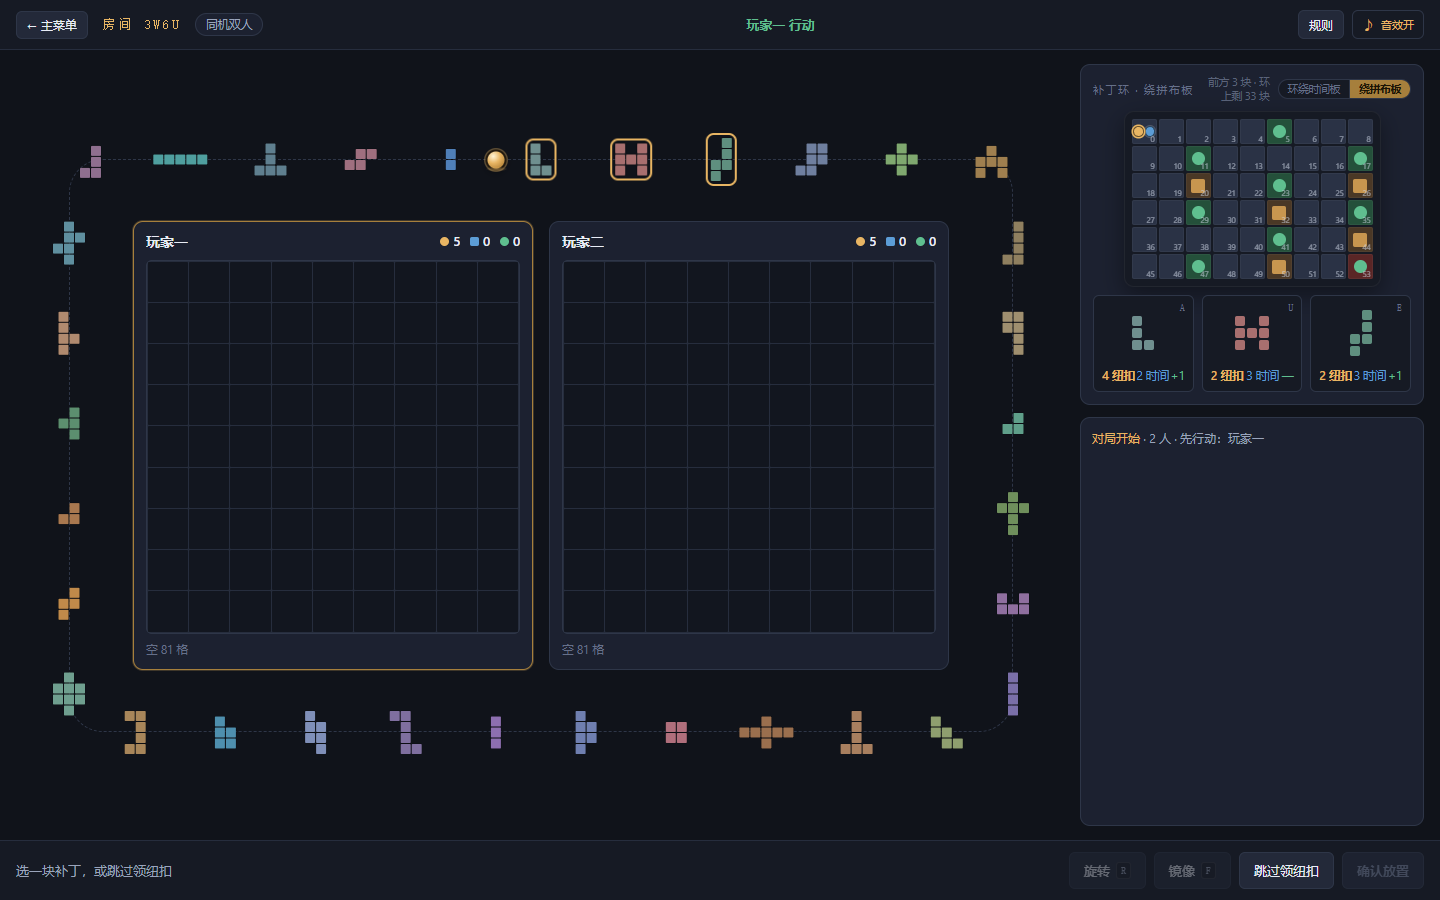
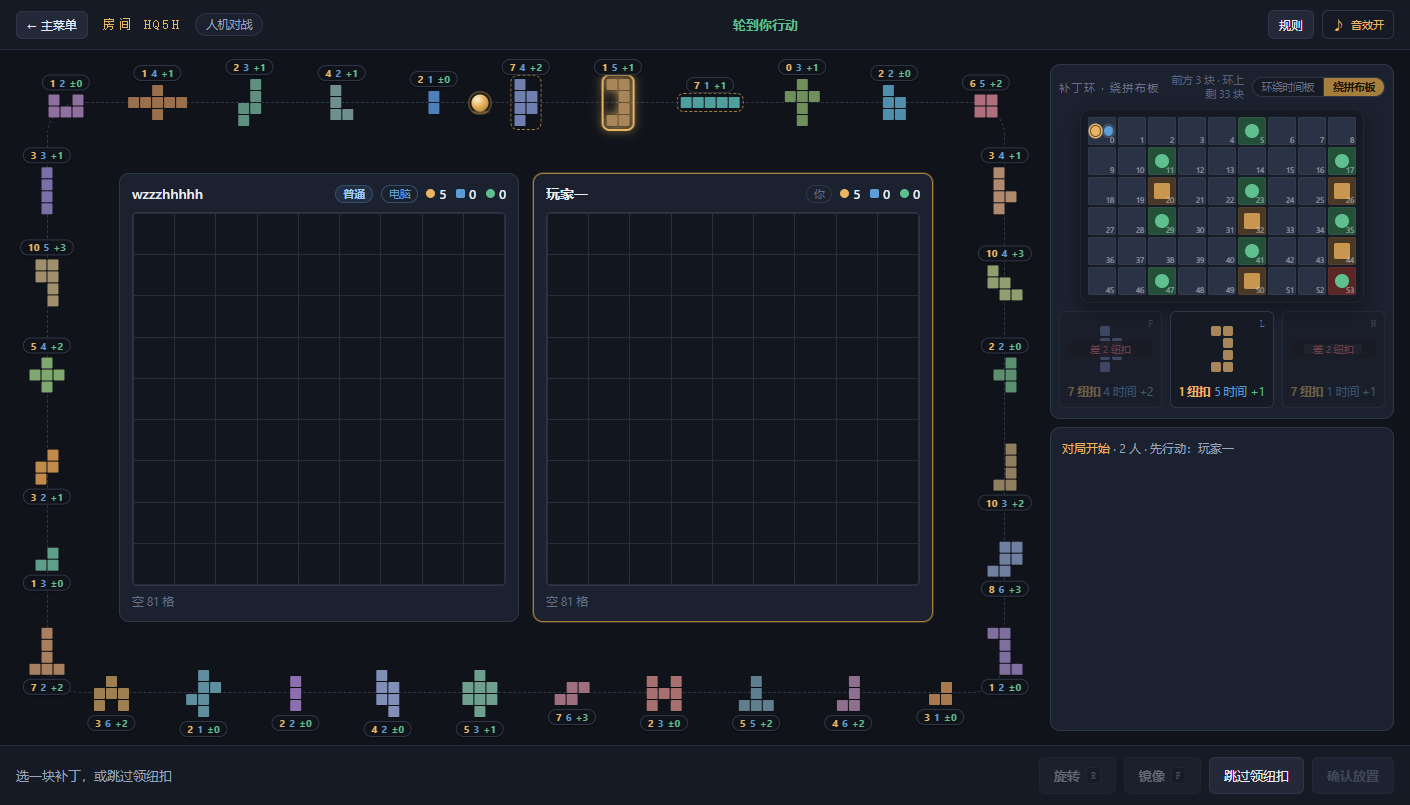
v1.7.2: 棋盘整体放大一档——拼布板/轨道/轨道上的布更大更清楚

diff --git a/public/app.js b/public/app.js
@@ -602,26 +602,26 @@ function renderPlayers() {
  * 这里用「剩下的块数 N」把 360° 均分，正面永远落在 6 点钟方向。
  */
 const RING = {
-  radius: 168,  // 兜底半径。实际半径从 CSS 里 .ring-guide 的宽度反算（--ring-d / 2），
+  radius: 188,  // 兜底半径。实际半径从 CSS 里 .ring-guide 的宽度反算（--ring-d / 2），
                 // 所以调环的大小只需改 CSS 变量，这里不用动。
-  tile: 6,      // 环上小补丁的格子边长
+  tile: 7,      // 环上小补丁的格子边长（v1.7.2 从 6px 提到 7px —— 环和布都放大一档）
   gap: 1,       // 格子间隙
   minTile: 3.4, // 格子最小可视边长：块数多的时候别把远处的补丁缩成一个点。
                 // v1.6.4 从 2.2 提到 3.4 —— 手机上环小、块数多，2.2px 缩完
                 // 只剩几颗 3px 的碎点糊在远端圆周上，看着像「错位」的噪点。
 };
 
-/* 「绕拼布板」布局（v1.4.1 加，v1.5 放大）
+/* 「绕拼布板」布局（v1.4.1 加，v1.5 放大，v1.7.2 再放大一档）
    路径不是圆，是贴着两块拼布板的圆角矩形。补丁沿四条边等弧长摊开、
    全部正放、一样大 —— 这样每一块都看得清清楚楚。
      insetMax 路径离舞台边缘最多这么远（舞台小的时候会按比例收，见 frameInset）。
                补丁是「骑」在路径上的，往里往外各伸约半个身位（最大那块 5 格），
                所以 .players 让出来的空带必须 ≥ insetMax + 半身位 + 描边。
      corner   圆角半径。
-     tile     框上小补丁的格子边长。v1.5 从 8px 提到 10px ——
-              最大的 5×5 补丁就是 5×10+4 = 54px，隔着半米也认得出形状。
+     tile     框上小补丁的格子边长。v1.5 从 8px 提到 10px，
+              v1.7.2 再提到 11px —— 最大的 5×5 补丁就是 5×11+4 = 59px。
      gap      格子间隙。 */
-const FRAME = { insetMax: 30, corner: 34, tile: 10, gap: 1 };
+const FRAME = { insetMax: 34, corner: 34, tile: 11, gap: 1 };
 
 /**
  * 路径离舞台边缘多远。舞台越小越往回收一点（免得补丁顶到外面那圈拼布板的边），
@@ -721,7 +721,8 @@ function frameBand(players) {
     // 窄屏：带子跟着宽度走，20~30px 就够了（框上格子也同步收窄，见 frameTile）
     return Math.max(20, Math.min(30, Math.round(w * 0.07)));
   }
-  return Math.max(66, Math.min(94, Math.round(w * 0.09)));
+  // v1.7.2：桌面从 66~94 放宽到 72~106 —— 拼布板 448px、框上格子 11px 都要地方
+  return Math.max(72, Math.min(106, Math.round(w * 0.10)));
 }
 
 /** 把 #frameStage 精确贴到 .players 的矩形上（两者都住在 .board-wrap 里） */
@@ -1828,8 +1829,17 @@ function escapeHtml(s) {
 /* ---------------- 更新日志 ---------------- */
 const CHANGELOG = [
   {
-    v: 'v1.7.1',
+    v: 'v1.7.2',
     date: '当前',
+    items: [
+      '<b>棋盘整体放大一档</b>：双人局的<b>拼布板</b>从 ~400px 涨到 ~448px，绕板的<b>轨道带</b>从 94px 涨到 106px，<b>轨道上的补丁格子</b>也从 10px 涨到 11px —— 摆子看得更清楚， 拼 7×7 的时候不用眯眼了。', 
+      '<b>环绕时间板布局同步放大</b>：补丁环从 336px 涨到 <b>376px</b>，环上的补丁格子从 6px 涨到 7px，环心时间板的格子从 25px 涨到 28px。日志框和面板内边距跟着收了收，1440×900 的笔记本上整页照样一屏放得下，不出滚动条。',
+      '<b>窄窗口也照顾到了</b>：矮窗口（≤760px 高）和窄窗口（≤1080px 宽）的缩水档同步抬高一档，小屏幕上棋盘同样大了一圈；手机端的布局保持不变。',
+    ],
+  },
+  {
+    v: 'v1.7.1',
+    date: '上一版',
     items: [
       '<b>锦标赛榜单上云了</b>：排行榜从「存在自己设备上」升级成<b>云端共享</b> —— 所有玩家的成绩汇成同一份榜单，谁净分多少、赢了几场，打开就能看到全场排行，点记录行回看对战时间、行动流水和得分构成。',
       '<b>手机号后 6 位 = 你的身份凭证</b>：参赛除了昵称还要填手机尾号，<b>每个尾号每天只能挑战一次</b> —— 换昵称也绕不过去，云端按尾号锁定。尾号只用于身份校验，不上榜、不展示。开始挑战前会先查云端，今天这个尾号打过就会拦下来（北京时间 0 点后重置）。',
@@ -1839,7 +1849,7 @@ const CHANGELOG = [
   },
   {
     v: 'v1.7',
-    date: '上一版',
+    date: '更早',
     items: [
       '<b>补丁环上的每个补丁都能看到价格了</b>：圈上（和框上）每个可选补丁旁边都挂了一枚小签 —— <b>金色是纽扣、蓝色是时间、绿色是每局收入</b>，一眼比价不用点开猜。这个洞从 v1.0 一直留到现在，终于补上了。手机上签会自动换成竖排小签，不挤不挡。',
       '<b>锦标赛来了</b>：主菜单多了一张「<b>锦标赛 · 挑战困难</b>」卡。交个参赛昵称，固定打困难档 wzzzhhhhh；每一局的对战时间、行动流水和双方得分构成都会记下来，按「<b>你的总分 − wzzzhhhhh 总分</b>」从高到低上榜，点记录行就能回看整局。记录存在自己设备上（最多 100 场），随时可清。',

diff --git a/public/style.css b/public/style.css
@@ -724,7 +724,7 @@ kbd {
 .center {
   display: flex;
   flex-direction: column;
-  gap: 12px;
+  gap: 8px;
   width: 420px;
   min-width: 0;
   min-height: 0;
@@ -736,7 +736,9 @@ kbd {
   background: var(--panel);
   border: 1px solid var(--line);
   border-radius: var(--radius);
-  padding: 10px 12px 12px;
+  /* v1.7.2 环放大到 376 后，左右内边距收窄到 8：给环上大补丁（5×5）留出
+     横向伸进来的余地，不然 3 点 / 9 点方向的大块会探出 stage 压到邻列。 */
+  padding: 8px 8px 10px;
   display: flex;
   flex-direction: column;
   gap: 8px;
@@ -790,8 +792,8 @@ kbd {
    舞台高度要比轨道再多留 40px：12 点钟和 6 点钟那两块补丁是「骑」在圆周上的，
    只给 2R 的话它们会顶出舞台去压标题和正面卡片。 */
 .ring-stage {
-  --ring-d: 336px;
-  --tb-cell: 25px;
+  --ring-d: 376px;
+  --tb-cell: 28px;
   /* 环上小补丁的格子边长 / 间隙。补丁图形本身不再写死像素，
      所以同一枚 chip 搬到框上（--rc-tile 换成 7px）能自动变大，不用重建。 */
   --rc-tile: 6px;
@@ -856,18 +858,20 @@ kbd {
      · .players 从 904px 放到 1000px（正好 = 94 + 400 + 12 + 400 + 94）；
      · 中间那列同步从 420px 收到 344px —— 绕拼布板时圆环不在了，
        中间只剩时间板和事件纪要，本来也吃不下 420px，把地方让给轨道正好。
+   v1.7.2 再放宽一档：.players 1120px = 106 + 448 + 12 + 448 + 106，
+     拼布板从 ~400px 涨到 ~448px，框上补丁格子也从 10px 涨到 11px。
    内边距只是个兜底值：真正的带宽由 app.js 的 frameBand() 按实际宽度算好写进内联样式
    （它必须 ≥ 路径内缩 + 补丁半身位 + 金色描边，否则描边会压到拼布板上）。 */
 .board-wrap.layout-frame { grid-template-columns: minmax(0, 1fr) minmax(300px, 344px); }
 .board-wrap.layout-frame .center { width: auto; }
 
 .board-wrap.layout-frame .players {
-  width: min(100%, 1000px);
+  width: min(100%, 1120px);
   justify-self: center;
   align-self: center;
   height: fit-content;
   align-content: start;
-  padding: 94px;
+  padding: 106px;
   overflow: visible;
 }
 
@@ -1154,8 +1158,9 @@ kbd {
 .log-wrap {
   flex: 1;
   /* 下限别定太高：窗口一矮，中间列会被撑破，日志直接被裁掉。
-     正常窗口下 flex:1 会把它撑得远大于这个值，所以调低不影响观感。 */
-  min-height: 104px;
+     正常窗口下 flex:1 会把它撑得远大于这个值，所以调低不影响观感。
+     v1.7.2 环放大吃掉了 ~17px 旧余量，下限从 104 收到 86 找补。 */
+  min-height: 86px;
   position: relative;
   display: flex;
 }
@@ -1578,8 +1583,9 @@ kbd {
 @media (max-width: 1080px) {
   .center { width: 352px; }
   .patch-grid .pc-cell { width: 10px; height: 10px; }
-  /* 窄一档：环和时间板一起等比缩，不用同步改 JS（半径是从轨道宽度反算的） */
-  .ring-stage { --ring-d: 288px; --tb-cell: 21px; }
+  /* 窄一档：环和时间板一起等比缩，不用同步改 JS（半径是从轨道宽度反算的）
+     v1.7.2 桌面档放大后（376/28），这里也跟着抬一档，仍然比桌面小一号 */
+  .ring-stage { --ring-d: 312px; --tb-cell: 23px; }
   .ring-front .patch-shape { height: 50px; }
   /* 中间列收窄后，绕拼布板这条轨道还能多挤一点出来 */
   .board-wrap.layout-frame { grid-template-columns: minmax(0, 1fr) minmax(280px, 320px); }
@@ -1588,7 +1594,7 @@ kbd {
 /* 窗口矮的时候（笔记本 768p 之类）把环再缩一档，
    否则「环 + 时间板」那块棋盘会把下面的事件纪要整个挤掉。 */
 @media (max-height: 760px) {
-  .ring-stage { --ring-d: 288px; --tb-cell: 21px; }
+  .ring-stage { --ring-d: 312px; --tb-cell: 23px; }
   .ring-front .patch-shape { height: 50px; }
   /* 矮屏上主菜单可能顶到顶，把标题布片和分隔线都收一收 */
   .menu-card { padding: 18px 20px 14px; }

diff --git a/uicheck.js b/uicheck.js
@@ -1223,9 +1223,9 @@ function ok(cond, label, extra) {
     })()`);
     ok(cl.show, '更新日志弹层能打开');
     ok(cl.vers >= 3, '包含 3 个及以上版本', '实际 ' + cl.vers);
-    ok(cl.first.indexOf('v1.7.1') === 0, '首条是 v1.7.1', cl.first);
-    ok(cl.items >= 4, 'v1.7.1 条目不少于 4 条（云榜单 + 手机尾号每天一次 + 清空按钮退役 + 离线提示）', '实际 ' + cl.items);
-    ok(cl.versions.slice(0, 13).join(',') === 'v1.7.1,v1.7,v1.6.7,v1.6.6,v1.6.5,v1.6.4,v1.6.3,v1.6.2,v1.6.1,v1.6,v1.5.1,v1.5,v1.4.1',
+    ok(cl.first.indexOf('v1.7.2') === 0, '首条是 v1.7.2', cl.first);
+    ok(cl.items >= 3, 'v1.7.2 条目不少于 3 条（拼布板/轨道/补丁放大 + 布局找补 + 断点跟随）', '实际 ' + cl.items);
+    ok(cl.versions.slice(0, 13).join(',') === 'v1.7.2,v1.7.1,v1.7,v1.6.7,v1.6.6,v1.6.5,v1.6.4,v1.6.3,v1.6.2,v1.6.1,v1.6,v1.5.1,v1.5',
       '版本号是连续的（含补记的 1.1）', cl.versions.join(' / '));
     await screenshot(ws, 'v165-4-changelog.png');
 

diff --git a/README.md b/README.md
@@ -1,4 +1,4 @@
-# 拼布 Patchwork · 单机与联机 v1.7.1
+# 拼布 Patchwork · 单机与联机 v1.7.2
 
 原版规则完整实现的网页版拼布（Uwe Rosenberg / Lookout Games 2014）。
 **四种玩法**：人机对战、锦标赛、同机双人、2~6 人联机。
@@ -29,8 +29,8 @@
 不用 `npm install`，这个项目零依赖。想和朋友一起玩，就把黑窗口里「给朋友」那条局域网地址
 和 4 位房间码发给他，**同一个 WiFi** 下打开就能进来（详见下面的「朋友打不开怎么办」）。
 
-> **版本**：每个发布版都打了 tag（`v1.0` → `v1.7.1`，共 17 个），想看某一版点 tag 就行。
-> **编号是连续的**：1.0 → 1.1 → 1.2 → 1.3 → 1.4 → 1.4.1 → 1.5 → 1.5.1 → 1.6 → 1.6.1 → 1.6.2 → 1.6.3 → 1.6.4 → 1.6.5 → 1.6.6 → 1.6.7 → 1.7 → 1.7.1。
+> **版本**：每个发布版都打了 tag（`v1.0` → `v1.7.2`，共 18 个），想看某一版点 tag 就行。
+> **编号是连续的**：1.0 → 1.1 → 1.2 → 1.3 → 1.4 → 1.4.1 → 1.5 → 1.5.1 → 1.6 → 1.6.1 → 1.6.2 → 1.6.3 → 1.6.4 → 1.6.5 → 1.6.6 → 1.6.7 → 1.7 → 1.7.1 → 1.7.2。
 > 其中 `v1.1` **没有独立源码** —— 归档流程是做到 v1.2 才建起来的，1.1 当时直接在 1.0 的目录里改，
 > 随后被 1.2 原地覆盖，翻遍 reflog 和 `git fsck --lost-found` 都找不回来了。
 > 它当时的改动都已包含在 v1.2 及之后的所有版本里，功能上没有缺失。
@@ -296,7 +296,17 @@ node probe-frame.js
 
 完整改动见 [CHANGELOG.md](CHANGELOG.md)。
 
-### v1.7.1（当前）
+### v1.7.2（当前）
+
+- **棋盘整体放大一档**：双人局拼布板 ~400→**~448px**、轨道带 94→**106px**、
+  框上补丁格子 10→**11px**；环绕时间板布局的补丁环 336→**376px**、
+  环上格子 6→**7px**、环心时间板格子 25→**28px** —— 摆子看得更清楚，拼 7×7 不用眯眼。
+- **布局找补**：日志框下限 104→86、列间距与面板内边距收窄，1440×900 一屏照旧放得下
+  （中列不溢出、六人局不撑破、大补丁不越界，均有界面断言把守）。
+- **窄/矮窗口同步抬一档**：≤1080px 宽与 ≤760px 高的缩水档从 288/21 升到 312/23，
+  小屏幕棋盘同样大一圈；手机端布局不变。
+
+### v1.7.1
 
 - **锦标赛榜单上云**：排行榜从本地 localStorage 升级为**云端共享**（WorkBuddy Cloud Service
   的 PostgreSQL），所有玩家汇成同一份榜单，实时可查；详情（时间 / 行动流水 / 得分构成）

diff --git a/CHANGELOG.md b/CHANGELOG.md
@@ -4,6 +4,36 @@
 
 ---
 
+## v1.7.2
+
+**棋盘整体放大一档：拼布板、轨道、轨道上的布都更大更清楚。**
+
+### 双人局（绕拼布板）
+
+- 拼布板从 ~400px 放大到 **~448px**（容器 1000→1120、内边距 94→106）；
+- 轨道带从 94px 放大到 **106px**，框上的补丁格子从 10px 放大到 **11px** ——
+  轨道上的布一寸大过一寸，摆哪儿、怎么拼一眼看清。
+
+### 环绕时间板（单机/多人）
+
+- 补丁环从 336px 放大到 **376px**，环上的补丁格子从 6px 放大到 **7px**；
+- 环心时间板的格子从 25px 放大到 **28px**，54 格还是不剩不空。
+
+### 一屏照旧放得下
+
+- 环放大会吃掉中列的垂直余量，这版把日志框下限（104→86）、列间距（12→8）
+  和面板内边距收窄找补回来 —— **1440×900 一屏完整**，不出滚动条；
+- 3 点 / 9 点方向的大补丁不再探出舞台（面板左右内边距 12→8 让位）；
+- 矮窗口（≤760 高）与窄窗口（≤1080 宽）的缩水档同步抬到 312/23，
+  小屏幕同样大一圈；**手机端布局保持不变**。
+
+### 质量线
+
+- 界面断言 **167 项全绿**（含两遍复跑确认 flaky 修复），
+  引擎 158 / 房间 41 / 端到端 59 / UI 47 / 静态冒烟 6 照旧全绿。
+
+---
+
 ## v1.7.1
 
 **锦标赛云端化：共享榜单 + 手机尾号每天一次。**
